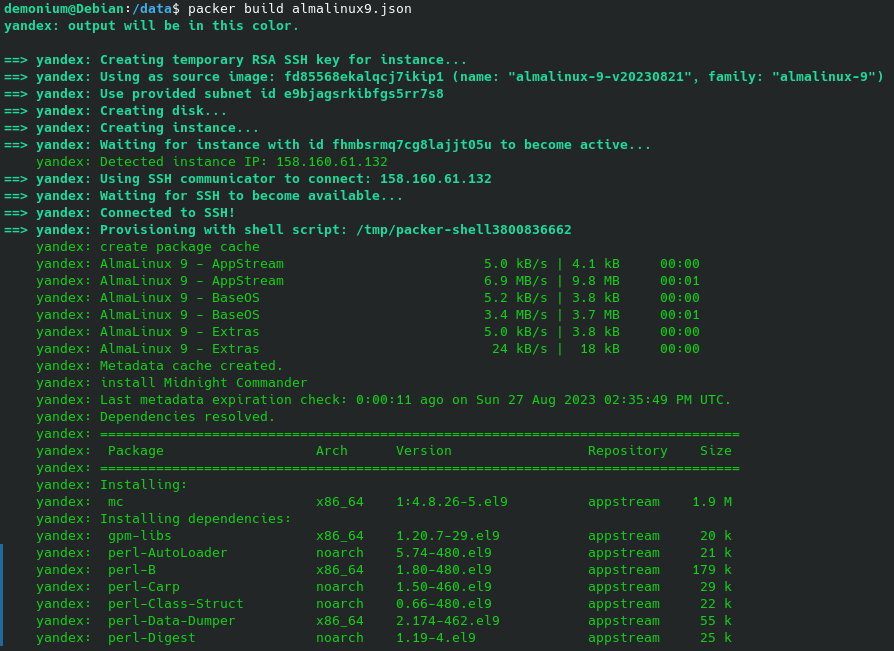
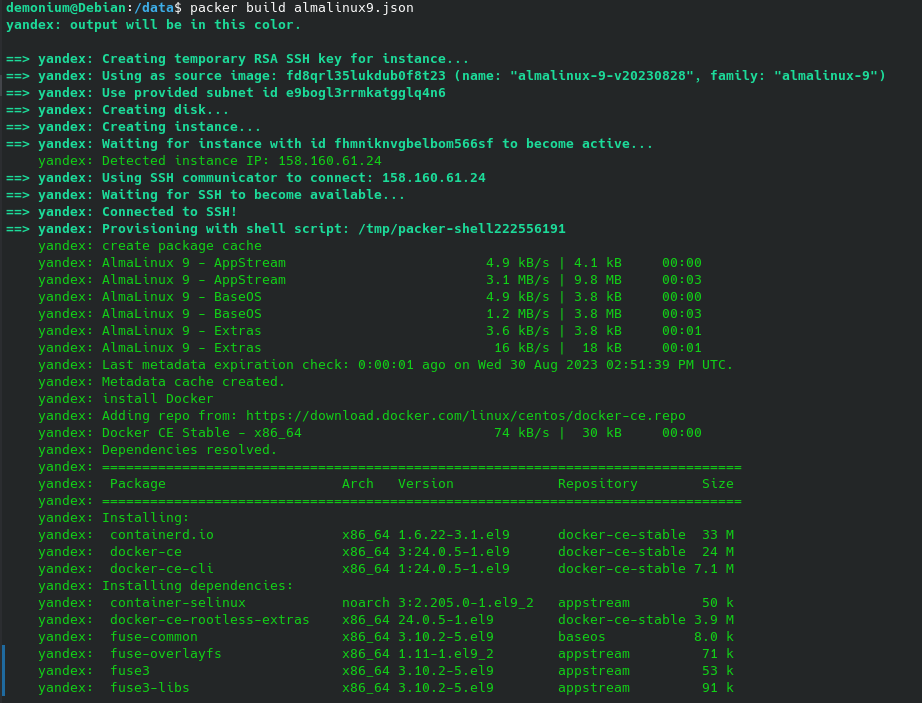
закончил второй пункт ДЗ

Changed region(s): [[0.0, 0.0, 0.9966, 1.0]]

diff --git a/README.md b/README.md
@@ -36,7 +36,7 @@
 
 Вижу, что в Yandex Cloud появились созданная мной сеть ```cloud-network``` и подсеть ```netology-subnet-a```.
 
-Для создания образа операционной системы выбрал Alma Linux 9. Пишу файл в формате JSON, будет выполнено образа установка в него файлового менеджера Midnight Commander:
+Для создания образа операционной системы выбрал Alma Linux 9. Пишу файл в формате JSON. Также в образ будет выполнена установка Docker и Docker Compose:
 
 ![img_5.png](IMG/img_5.png)
 
@@ -48,7 +48,7 @@
 
 ![img_7.png](IMG/img_7.png)
 
-Видно, что кроме сборки образа обновляется кэш пакетов и устанавливается ```mc```.
+Видно, что кроме сборки образа происходит обновление кэша пакетов и устанавливается ```docker``` и ```docker-compose```.
 
 После завершения сборки выводится информация о том, что сборка прошла успешно, выводится время выполнения сборки и идентификатор образа:
 
@@ -68,7 +68,7 @@
 
 ![img_11.png](IMG/img_11.png)
 
-Благодаря принципу идемпотентности повторное выполнение команды для сборки образа даст же результат, что и предыдущий раз или все последующие. То есть при необходимости образ можно будет создать заново.
+Благодаря принципу идемпотентности повторное выполнение команды для сборки образа даст же результат, что и предыдущий раз или все последующие. То есть при необходимости образ можно будет создать заново. В следующих заданиях также буду удалять виртуальные машины.
 
 ## Задача 2
 
@@ -82,7 +82,7 @@
 
 ## Решение 2
 
-**2.1.**  Создал виртуальную машину в Yandex Cloud с помощью web-интерфейса:
+**2.1.**  Создал виртуальную машину Astra Linux в Yandex Cloud с помощью web-интерфейса:
 
 ![img_13.png](IMG/img_12.png)
 
@@ -92,9 +92,34 @@
 
 ![img_14.png](IMG/img_14.png)
 
-**2.2.** Создаю виртуальную машину в YandexCloud с помощью Terraform:
+**2.2.** Создаю виртуальную машину в YandexCloud с помощью Terraform.
 
+Для этого воспользуюсь ранее созданным с помощью Packer образом операционной системы Alma Linux 9.
 
+Скорректирую предоставленные в репозитории с домашним заданием файлы с параметрами виртуальной машины под свои условия:
+поменяю в файлах ID облака, ID каталога пользователя, ID образа виртуальной машины, ID подсети и адрес подсети, в которой будет развернута машина, создаю key.json файл для Yandex Cloud, создаю ssh ключ для подключения к будущей виртуальной машине, а также исправляю основные параметры виртуальной машины под свои нужды.
+
+Используя команду ```terraform plan``` можно проверить файлы конфигурации виртуальной машины и посмотреть какие ресурсы будут задействованы в облаке.
+
+Командой ```terraform apply``` запускаю созадние виртуальной машины.
+
+![img_15.png](IMG/img_15.png)
+
+Виртуальная машина создана за 1 минуту и 3 секунды, а также в итоговом сообщении указаны ее внешний и внутренний адреса.
+
+Командой ```yc compute instance list``` смотрю список виртуальных машин:
+
+![img_16.png](IMG/img_16.png)
+
+Также это можно увидеть в Web-интерфейсе:
+
+![img_17.png](IMG/img_17.png)
+
+Подключаюсь по ssh к виртуальной машине и проверю, установлены ли в ней Docker и Docker Compose:
+
+![img_18.png](IMG/img_18.png)
+
+В итоге виртуальная мышина была создана с помощью Terraform с набором нужного мне ПО.
 
 ## Задача 3
 
